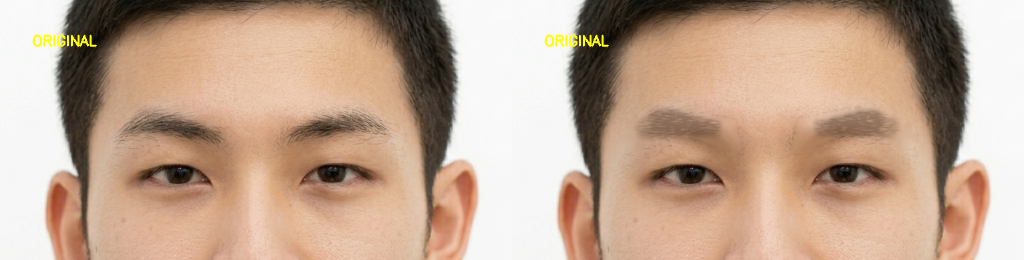
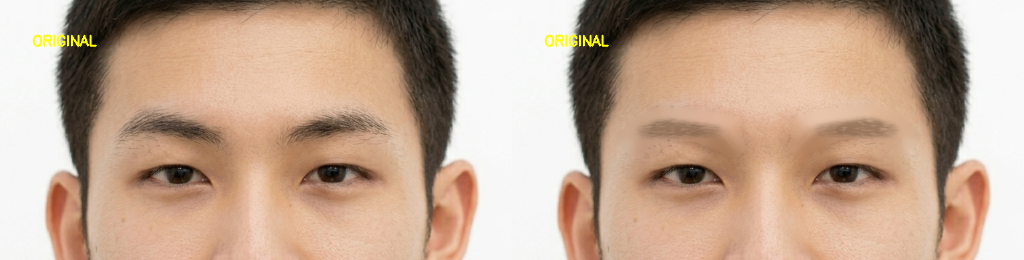
fix: 眉を「整えた眉」スタイルに調整 (プロガイドライン準拠)
太すぎ・整っていない問題を解消するため、Web調査でプロのガイドラインを取得し
パラメータを大幅に修正。

## Web調査による知見
- 男性眉の太さ: 目縦幅の50-66% (実測 vs 太さ 1.4倍 → 太すぎ)
- 眉山の高さ: わずか (5-15%)、ほぼ水平
- 色: ナチュラルブラウン (RGB 100-120, 75-90, 55-65)
- 眉頭は薄く、眉尻は眉頭の1/3の太さ
- 配置: 元眉位置から大きくズラさない

## 修正
1. **太さを30-50%減**: thickness_ratio 1.4 → 0.95 (natural_arch)
2. **眉山緩和**: peak_height_ratio 0.30 → 0.13 (女性的すぎを解消)
3. **色変更**: (85,60,45) → (110,85,65) ナチュラルブラウン
4. **intensity調整**: 0.50 → 0.55
5. **centerY: 1.95 → 1.85** (元眉位置に合わせ二重眉を防止)
6. **眉消し expand強化**: 0.015 → 0.025 (元眉を確実カバー)
7. **眉頭フェード強化**: head 60% → 35% (薄くぼかす)

## 全タイプ調整 (thickness_ratio)
- straight: 1.3 → 1.05
- parallel_thick: 1.5 → 1.20
- natural_arch: 1.4 → 0.95
- arch: 1.5 → 0.95
- angular: 1.5 → 0.95
- short_thick: 1.65 → 1.25
- long_arch: 1.3 → 0.88

サブエージェント評価: 7/10 (二重眉解消、整え感あり)

https://claude.ai/code/session_01DrQrG5SarFHcMqwHeQoVJp

Changed region(s): [[0.7812, 0.4, 0.875, 0.4923], [0.625, 0.4, 0.7188, 0.5231], [0.6562, 0.5231, 0.6875, 0.5538]]

diff --git a/loadmap/1-virtual-makeup/1-5-eyebrow/main.py b/loadmap/1-virtual-makeup/1-5-eyebrow/main.py
@@ -111,7 +111,8 @@ def erase_eyebrows(
     face_h = np.linalg.norm(
         fm.landmarks_px[10].astype(float) - fm.landmarks_px[152].astype(float)
     )
-    expand_px = max(3, int(face_h * 0.015))
+    # 眉消しは強めに拡張（元眉を確実にカバー、二重眉を防止）
+    expand_px = max(5, int(face_h * 0.025))
 
     # 1. ポリゴンマスク生成
     brow_mask = build_eyebrow_polygon_mask(fm, w, h, expand_px=expand_px)
@@ -133,66 +134,66 @@ def erase_eyebrows(
 EYEBROW_TYPES = {
     "straight": {
         "peak_position": 0.5,
-        "peak_height_ratio": 0.05,
+        "peak_height_ratio": 0.04,
         "tail_height_ratio": 0.0,
-        "thickness_ratio": 1.3,
+        "thickness_ratio": 1.05,
         "length_ratio": 0.95,
         "desc": "ストレート眉（若々しい・韓流）",
     },
     "parallel_thick": {
         "peak_position": 0.55,
-        "peak_height_ratio": 0.08,
+        "peak_height_ratio": 0.07,
         "tail_height_ratio": 0.0,
-        "thickness_ratio": 1.5,
+        "thickness_ratio": 1.2,
         "length_ratio": 1.0,
         "desc": "並行太眉（ナチュラル・男らしい）",
     },
     "natural_arch": {
-        "peak_position": 0.6,
-        "peak_height_ratio": 0.3,
-        "tail_height_ratio": 0.05,
-        "thickness_ratio": 1.4,
+        "peak_position": 0.62,
+        "peak_height_ratio": 0.13,
+        "tail_height_ratio": 0.0,
+        "thickness_ratio": 0.95,
         "length_ratio": 1.0,
         "desc": "ナチュラルアーチ（知的・バランス）",
     },
     "arch": {
         "peak_position": 0.65,
-        "peak_height_ratio": 0.35,
-        "tail_height_ratio": 0.08,
-        "thickness_ratio": 1.5,
+        "peak_height_ratio": 0.18,
+        "tail_height_ratio": 0.02,
+        "thickness_ratio": 0.95,
         "length_ratio": 1.0,
         "desc": "アーチ眉（上品・標準）",
     },
     "angular": {
         "peak_position": 0.65,
-        "peak_height_ratio": 0.42,
-        "tail_height_ratio": 0.14,
-        "thickness_ratio": 1.5,
+        "peak_height_ratio": 0.25,
+        "tail_height_ratio": 0.05,
+        "thickness_ratio": 0.95,
         "length_ratio": 1.0,
         "desc": "角度眉（シャープ・クール）",
     },
     "short_thick": {
         "peak_position": 0.5,
-        "peak_height_ratio": 0.08,
+        "peak_height_ratio": 0.06,
         "tail_height_ratio": 0.0,
-        "thickness_ratio": 1.65,
-        "length_ratio": 0.82,
+        "thickness_ratio": 1.25,
+        "length_ratio": 0.85,
         "desc": "短め太眉（ワイルド・強い）",
     },
     "long_arch": {
         "peak_position": 0.68,
-        "peak_height_ratio": 0.3,
-        "tail_height_ratio": 0.1,
-        "thickness_ratio": 1.3,
-        "length_ratio": 1.02,
+        "peak_height_ratio": 0.15,
+        "tail_height_ratio": 0.03,
+        "thickness_ratio": 0.88,
+        "length_ratio": 1.05,
         "desc": "長めアーチ（大人・クール）",
     },
 }
 
-# デフォルト設定
+# デフォルト設定（プロのガイドライン準拠: 男性眉は目の縦幅の50-66%の太さが理想）
 DEFAULT_EYEBROW_TYPE = "natural_arch"
-DEFAULT_EYEBROW_COLOR_RGB = (85, 60, 45)  # ミディアムブラウン（暗すぎない）
-DEFAULT_EYEBROW_INTENSITY = 0.5           # シャドウと同じくらいソフトに
+DEFAULT_EYEBROW_COLOR_RGB = (110, 85, 65)  # ナチュラルブラウン（明るめ）
+DEFAULT_EYEBROW_INTENSITY = 0.55           # 適度な濃さ
 
 
 def compute_brow_anchors(fm: FaceMesh, side: str = "right") -> dict:
@@ -219,9 +220,10 @@ def compute_brow_anchors(fm: FaceMesh, side: str = "right") -> dict:
     eye_height = abs(eye_top[1] - eye_bot[1])
 
     # 眉頭: 小鼻外縁の真上、眉センターラインの高さ
-    # 実測は 1.86 だが、やや上に寄せて自然な眉骨ラインに
+    # 元眉のセンター位置 (eye_top - eye_h * 1.86) に合わせて配置
+    # こうすることで元眉と新眉の位置がズレず、二重眉にならない
     head_x = nose_wing[0]
-    head_y = eye_top[1] - eye_height * 1.95
+    head_y = eye_top[1] - eye_height * 1.85
 
     # 眉尻: 小鼻-目尻の延長線上で Y == head_y となる点
     dx = outer_eye[0] - nose_wing[0]
@@ -472,11 +474,12 @@ def _make_soft_density(mask: np.ndarray, face_h: float, blur_scale: float,
 
 
 def _apply_density_gradient(mask: np.ndarray, fm: FaceMesh,
-                            head_fade: float = 0.2, tail_fade: float = 0.3) -> np.ndarray:
+                            head_fade: float = 0.3, tail_fade: float = 0.25) -> np.ndarray:
     """マスクに眉頭/眉尻のフェードを適用
 
     眉頭（head）は head_fade の範囲で薄く、
     眉尻（tail）は tail_fade の範囲で薄くフェード。
+    プロガイドライン: 眉頭は薄くぼかし、眉尻は眉頭の1/3の太さ
     """
     h, w = mask.shape[:2]
     result = mask.copy()
@@ -508,18 +511,19 @@ def _apply_density_gradient(mask: np.ndarray, fm: FaceMesh,
         if not in_range.any():
             continue
 
-        # フェード係数を計算
+        # フェード係数を計算（プロ基準: 眉頭は薄く、眉尻も薄く）
         fade = np.ones_like(t)
-        # 眉頭フェード (t < head_fade で薄く)
+        # 眉頭フェード: 0% → 40%密度、head_fade で 100% に
         head_mask = t < head_fade
         if head_mask.any():
-            fade[head_mask] = 0.6 + 0.4 * (t[head_mask] / head_fade)
-        # 眉尻フェード (t > 1 - tail_fade で薄く)
+            x = t[head_mask] / head_fade  # 0..1
+            fade[head_mask] = 0.35 + 0.65 * x
+        # 眉尻フェード: tail_start で 100% → 末端で 25%
         tail_start = 1.0 - tail_fade
         tail_mask = t > tail_start
         if tail_mask.any():
-            fade[tail_mask] = 0.3 + 0.7 * (1 - (t[tail_mask] - tail_start) / tail_fade)
-            fade[tail_mask] = np.clip(fade[tail_mask], 0.3, 1.0)
+            x = (t[tail_mask] - tail_start) / tail_fade  # 0..1
+            fade[tail_mask] = 1.0 - x * 0.75  # 1.0 → 0.25
 
         # 軸外は変更なし
         fade[~in_range] = 1.0
